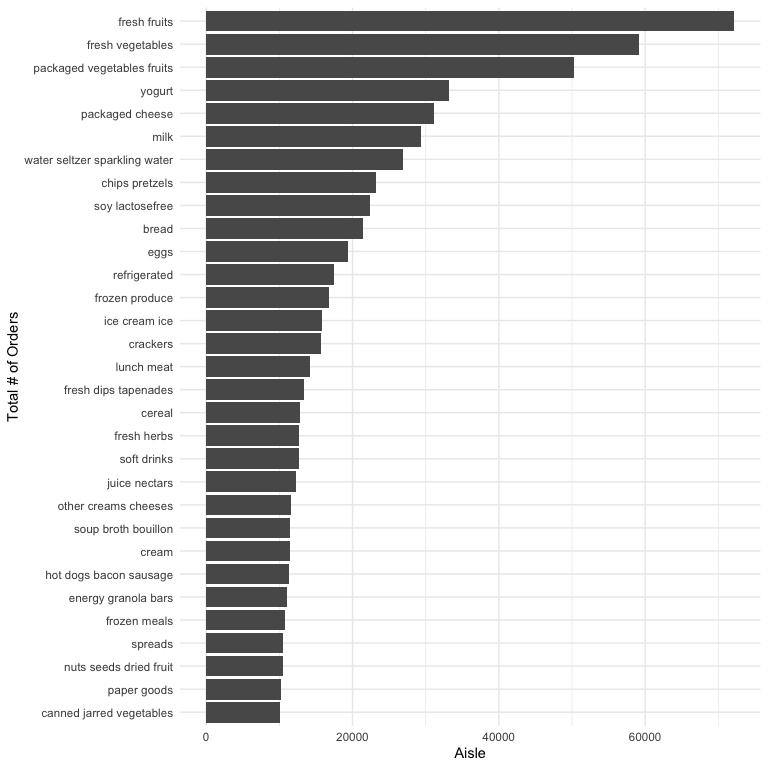
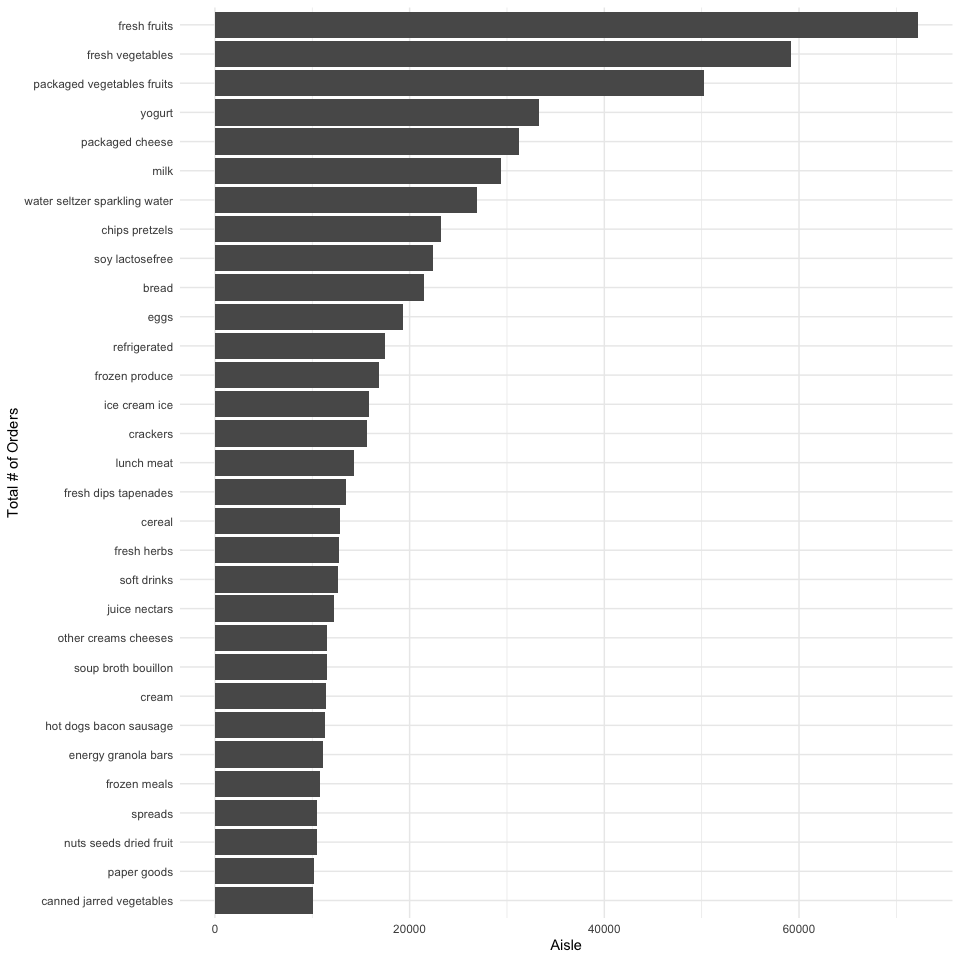
bigger plots

diff --git a/p8105_hw3_sc5826.md b/p8105_hw3_sc5826.md
@@ -22,7 +22,7 @@ library(p8105.datasets)
 
 
 knitr::opts_chunk$set(
-  fig.width = 8,
+  fig.width = 10,
   fig.asp = 1,
   out.width = "95%"
 )
@@ -338,7 +338,6 @@ zori_nyc_neighborhoods |>
   filter(!is.na(index)) |> 
   ggplot(aes(x = year, y = index, color = borough)) +
   geom_jitter(height = 0, width = 0.2) +
-  # geom_smooth(method = "lm", stat = "smooth") +
   facet_grid(.~borough) +
   scale_x_continuous(
     breaks = c(2015, 2020)
